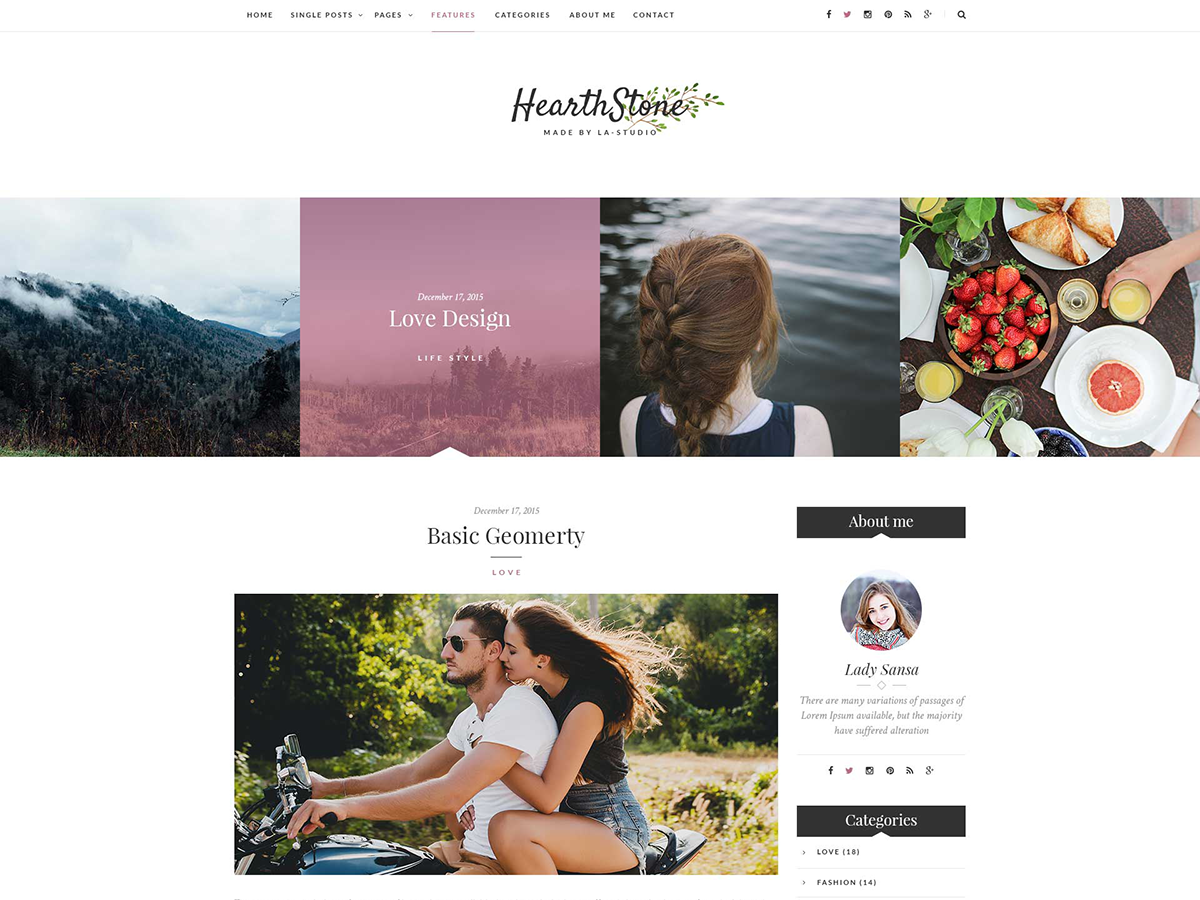
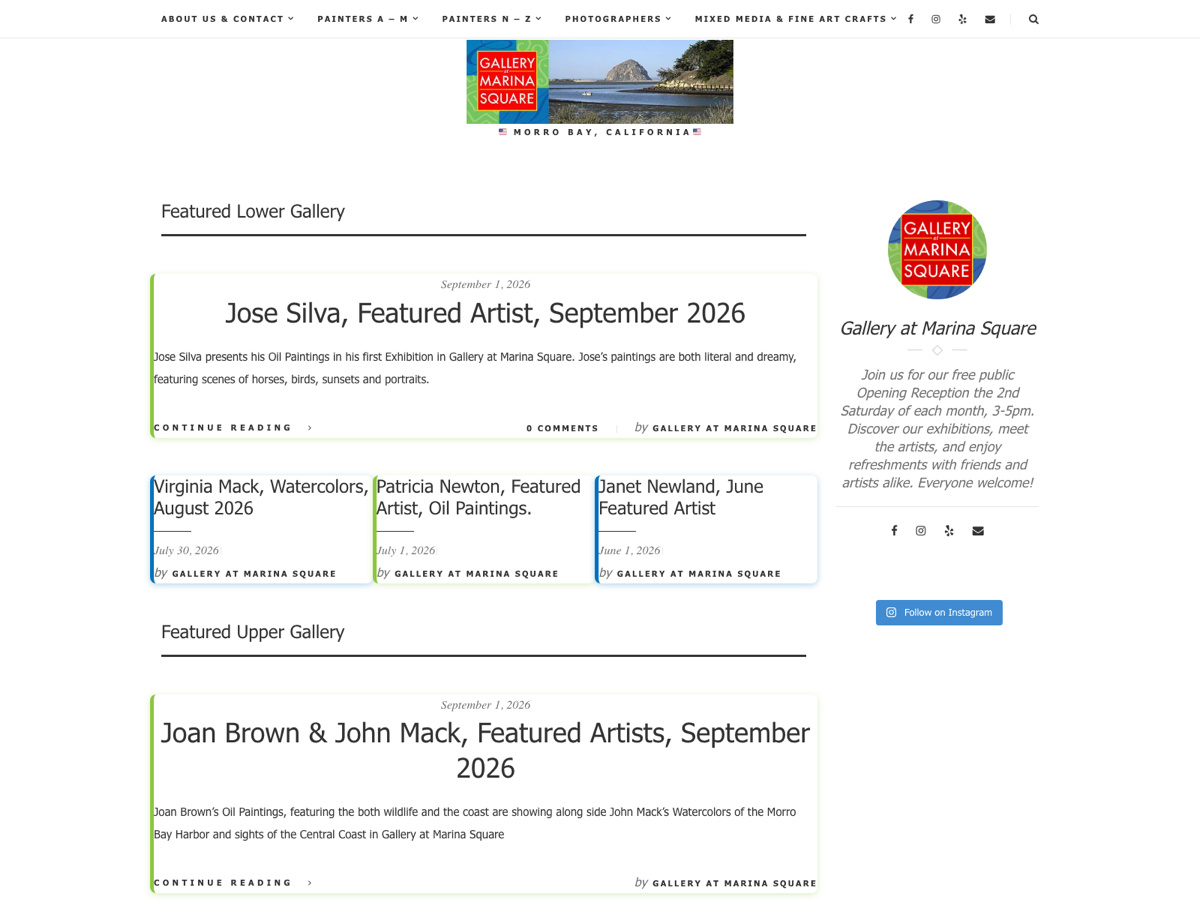
Update theme header and screenshot
Header: author Scot Hacker, repo URL, version 1.1, reflowed tags.
Screenshot: live site home page, replacing the G5Plus stock image.
README: name the site it serves.

diff --git a/style.css b/style.css
@@ -1,15 +1,19 @@
 /*
  Theme Name:   HearthStone Child Theme
- Theme URI:    http://themes.g5plus.net/hearthStone/
- Description:  HearthStone Child Theme
- Author:       G5plus
- Author URI:   http://g5plus.net
+ Theme URI:    https://github.com/shacker/hearthstone-child-theme
+ Description:  Child theme for the HearthStone parent theme by G5Plus. Holds all
+               site-specific CSS and PHP customizations.
+ Author:       Scot Hacker
+ Author URI:   https://github.com/shacker
  Template:     hearthstone
- Version:      1.0
+ Version:      1.1
  License:      GNU General Public License v2 or later
  License URI:  http://www.gnu.org/licenses/gpl-2.0.html
-Tags: 				two-columns, three-columns, left-sidebar, right-sidebar, fixed-layout, responsive-layout, custom-background, custom-header, custom-menu, editor-style, post-formats, rtl-language-support, sticky-post, theme-options, translation-ready, accessibility-ready
-Text Domain: 		g5plus-hearthstone
+ Text Domain:  g5plus-hearthstone
+ Tags:         two-columns, three-columns, left-sidebar, right-sidebar, fixed-layout,
+               responsive-layout, custom-background, custom-header, custom-menu,
+               editor-style, post-formats, rtl-language-support, sticky-post,
+               theme-options, translation-ready, accessibility-ready
 */
 /************************************************************************************
 Put your custom CSS below this block :)

diff --git a/README.md b/README.md
@@ -1,7 +1,8 @@
 # HearthStone Child Theme
 
 A WordPress child theme for the commercial **HearthStone** parent theme by G5Plus
-(tested against parent version 1.8).
+(tested against parent version 1.8). It powers the Gallery at Marina Square site
+in Morro Bay, California.
 
 The child theme holds all site-specific changes. The parent theme stays
 unmodified, so you can update it without loss of customizations.
@@ -12,7 +13,7 @@ unmodified, so you can update it without loss of customizations.
 | ---------------- | -------------------------------------------------------------- |
 | `style.css`      | Theme header (WordPress needs this) and custom CSS              |
 | `functions.php`  | Custom PHP: style enqueue, translations, comment control        |
-| `screenshot.png` | Theme thumbnail shown in Appearance > Themes (1200x900)         |
+| `screenshot.png` | Theme thumbnail shown in Appearance > Themes (1200x900)        |
 
 ## Requirements
 
@@ -88,5 +89,3 @@ necessary.
 GPL-2.0-or-later. See [LICENSE](LICENSE).
 
 The parent theme is commercial software from G5Plus and is not included here.
-The `screenshot.png` and the `style.css` header credits come from the parent
-theme's child-theme starter package.
